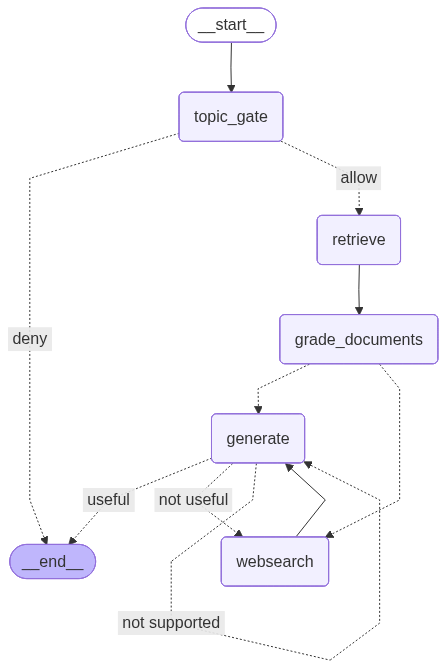
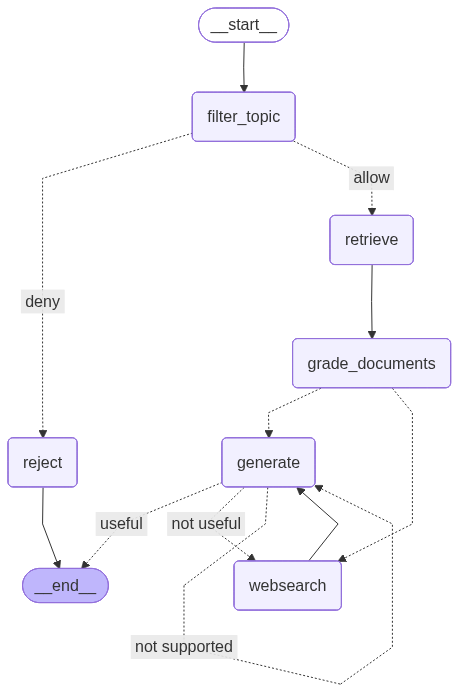
add reject node

diff --git a/graph/graph.py b/graph/graph.py
@@ -7,11 +7,24 @@ from langgraph.graph import END, StateGraph
 from graph.chains.answer_grader import answer_grader
 from graph.chains.hallucination_grader import hallucination_grader
 from graph.chains.router import RouteQuery, question_router
-from graph.chains.topic_grader import topic_grader
 
 # import all consts (nodes names) and the nodes created
-from graph.consts import GENERATE, GRADE_DOCUMENTS, RETRIEVE, WEBSEARCH, TOPIC_GATE
-from graph.nodes import generate, grade_documents, retrieve, web_search, topic_gate
+from graph.consts import (
+    GENERATE,
+    GRADE_DOCUMENTS,
+    RETRIEVE,
+    WEBSEARCH,
+    FILTER_TOPIC,
+    REJECT,
+)
+from graph.nodes import (
+    generate,
+    grade_documents,
+    retrieve,
+    web_search,
+    filter_topic,
+    reject,
+)
 from graph.state import GraphState
 
 
@@ -92,15 +105,6 @@ def decide_to_answer(state):
         return "allow"
     else:
         print("--DECISION: END--")
-        print(
-            f"""I can't help with that request.\n
-This assistant only provides information about:
-- online violence against women and girls,
-- the manosphere,
-- deepfakes,
-- laws and regulations related to gender-based violence,
-- measures to mitigate gender-based violence."""
-        )
         return "deny"
 
 
@@ -108,20 +112,21 @@ This assistant only provides information about:
 workflow = StateGraph(GraphState)
 
 # add nodes
-workflow.add_node(TOPIC_GATE, topic_gate)
+workflow.add_node(FILTER_TOPIC, filter_topic)
+workflow.add_node(REJECT, reject)
 workflow.add_node(RETRIEVE, retrieve)
 workflow.add_node(GRADE_DOCUMENTS, grade_documents)
 workflow.add_node(GENERATE, generate)
 workflow.add_node(WEBSEARCH, web_search)
 
-# add topic_gate as entry point
-workflow.set_entry_point(TOPIC_GATE)
+# add filter_topic as entry point
+workflow.set_entry_point(FILTER_TOPIC)
 workflow.add_conditional_edges(
-    TOPIC_GATE,
+    FILTER_TOPIC,
     decide_to_answer,
     path_map={
-        "deny": END, #if topic not relevant, end graph 
-        "allow": RETRIEVE, #if relevant, continue
+        "deny": REJECT,  # if topic not relevant, generate reject response
+        "allow": RETRIEVE,  # if relevant, continue
     },
 )
 # add conditional entry point
@@ -151,6 +156,7 @@ workflow.add_conditional_edges(
 
 workflow.add_edge(WEBSEARCH, GENERATE)
 workflow.add_edge(GENERATE, END)  # last edge
+workflow.add_edge(REJECT, END)
 
 app = workflow.compile()
 app.get_graph().draw_mermaid_png(output_file_path="graph.png")

diff --git a/graph/nodes/reject.py b/graph/nodes/reject.py
@@ -1,0 +1,31 @@
+from typing import Any, Dict
+
+from graph.state import GraphState
+
+
+def reject(state: GraphState) -> Dict[str, Any]:
+    """
+    Handle irrelevant user queries.
+    Return an updated state with a denial response.
+
+    Params:
+    - state (dict): The current graph state.
+
+    Return:
+    - state (dict): Answer to user.
+    """
+    question = state["question"]
+    response = """I can't help with that request.
+
+This assistant only provides information about:
+- online violence against women and girls,
+- the manosphere,
+- deepfakes,
+- laws and regulations related to gender-based violence,
+- measures to mitigate gender-based violence.
+"""
+
+    return {
+        "question": question,
+        "generation": response,
+    }  # update graph state with hard response to user

diff --git a/graph/nodes/__init__.py b/graph/nodes/__init__.py
@@ -2,6 +2,14 @@ from graph.nodes.generate import generate
 from graph.nodes.grade_documents import grade_documents
 from graph.nodes.retrieve import retrieve
 from graph.nodes.web_search import web_search
-from graph.nodes.topic_gate import topic_gate
+from graph.nodes.filter_topic import filter_topic
+from graph.nodes.reject import reject
 
-__all__ = ["generate", "grade_documents", "retrieve", "web_search", "topic_gate"]
+__all__ = [
+    "generate",
+    "grade_documents",
+    "retrieve",
+    "web_search",
+    "filter_topic",
+    "reject",
+]

diff --git a/graph/nodes/filter_topic.py b/graph/nodes/filter_topic.py
@@ -4,7 +4,7 @@ from graph.chains.topic_grader import topic_grader
 from graph.state import GraphState
 
 
-def topic_gate(state: GraphState) -> Dict[str, Any]:
+def filter_topic(state: GraphState) -> Dict[str, Any]:
     """
     Determine whether the user query is relevant to allowed topics.
     If it is not, return answer to user.
@@ -36,4 +36,4 @@ def topic_gate(state: GraphState) -> Dict[str, Any]:
 
 
 if __name__ == "__main__":
-    topic_gate(state={"question": "crochet"})
+    filter_topic(state={"question": "crochet"})

diff --git a/graph/consts.py b/graph/consts.py
@@ -2,4 +2,5 @@ RETRIEVE = "retrieve"
 GRADE_DOCUMENTS = "grade_documents"
 GENERATE = "generate"
 WEBSEARCH = "websearch"
-TOPIC_GATE = "topic_gate"
+FILTER_TOPIC = "filter_topic"
+REJECT = "reject"
